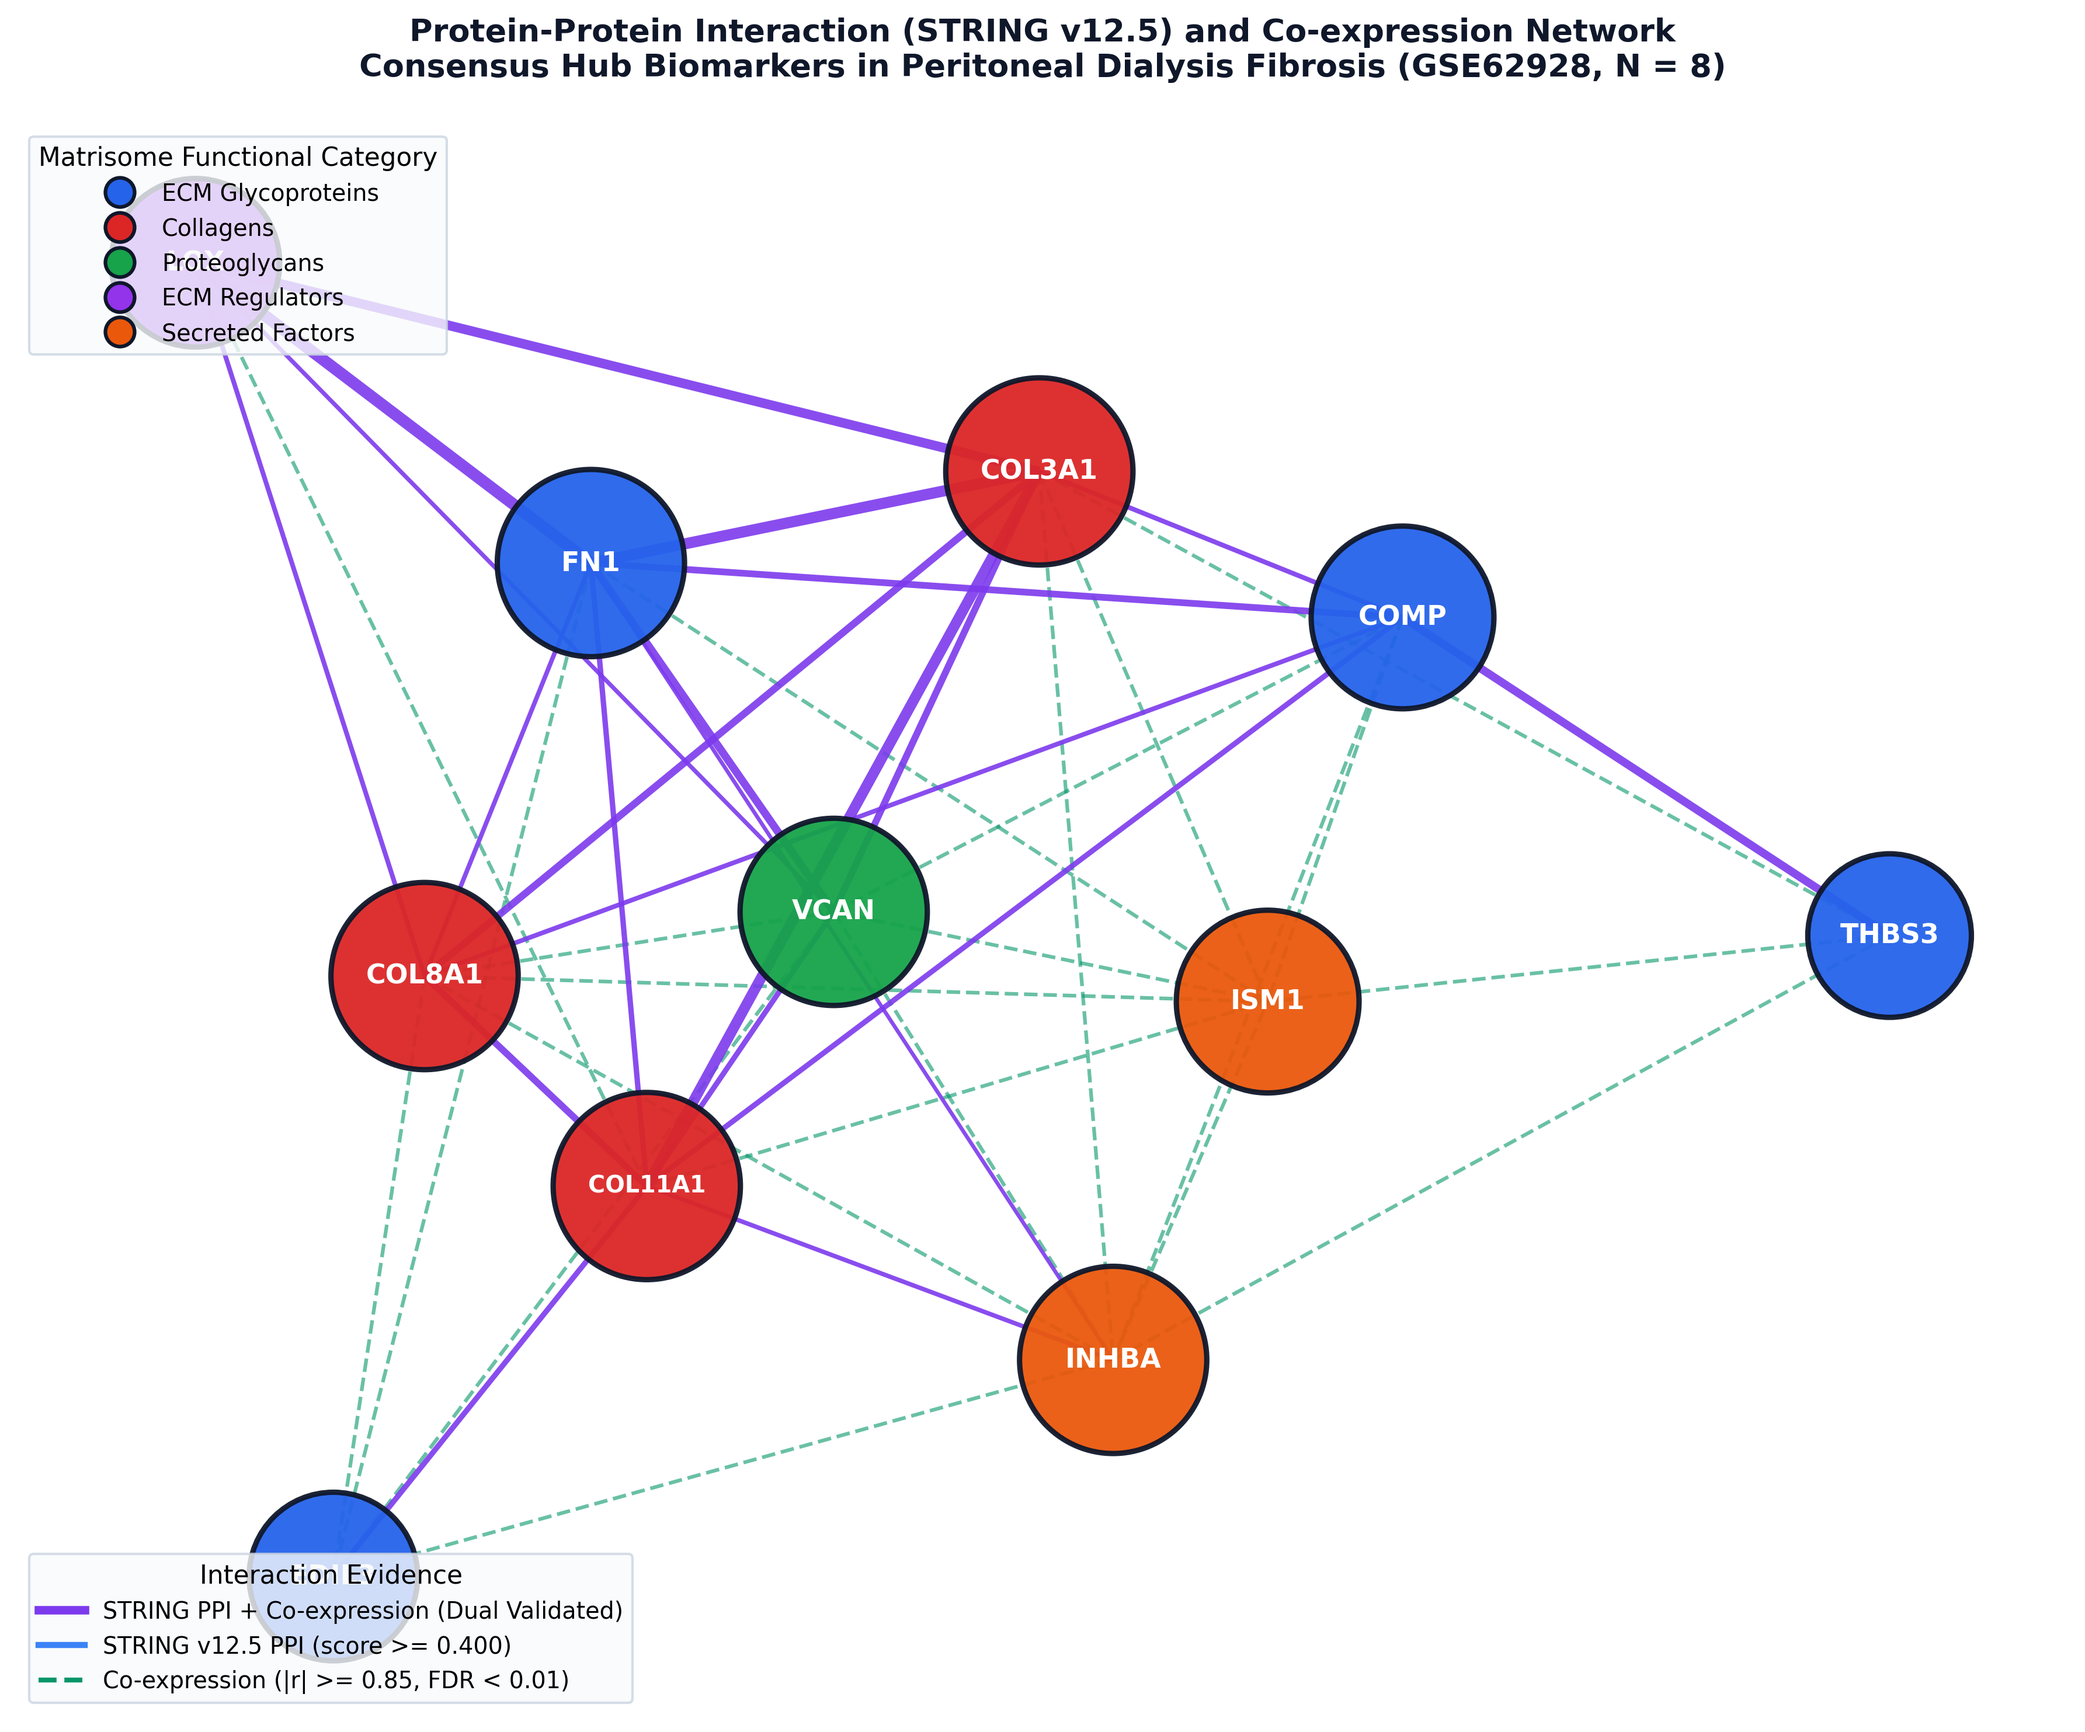
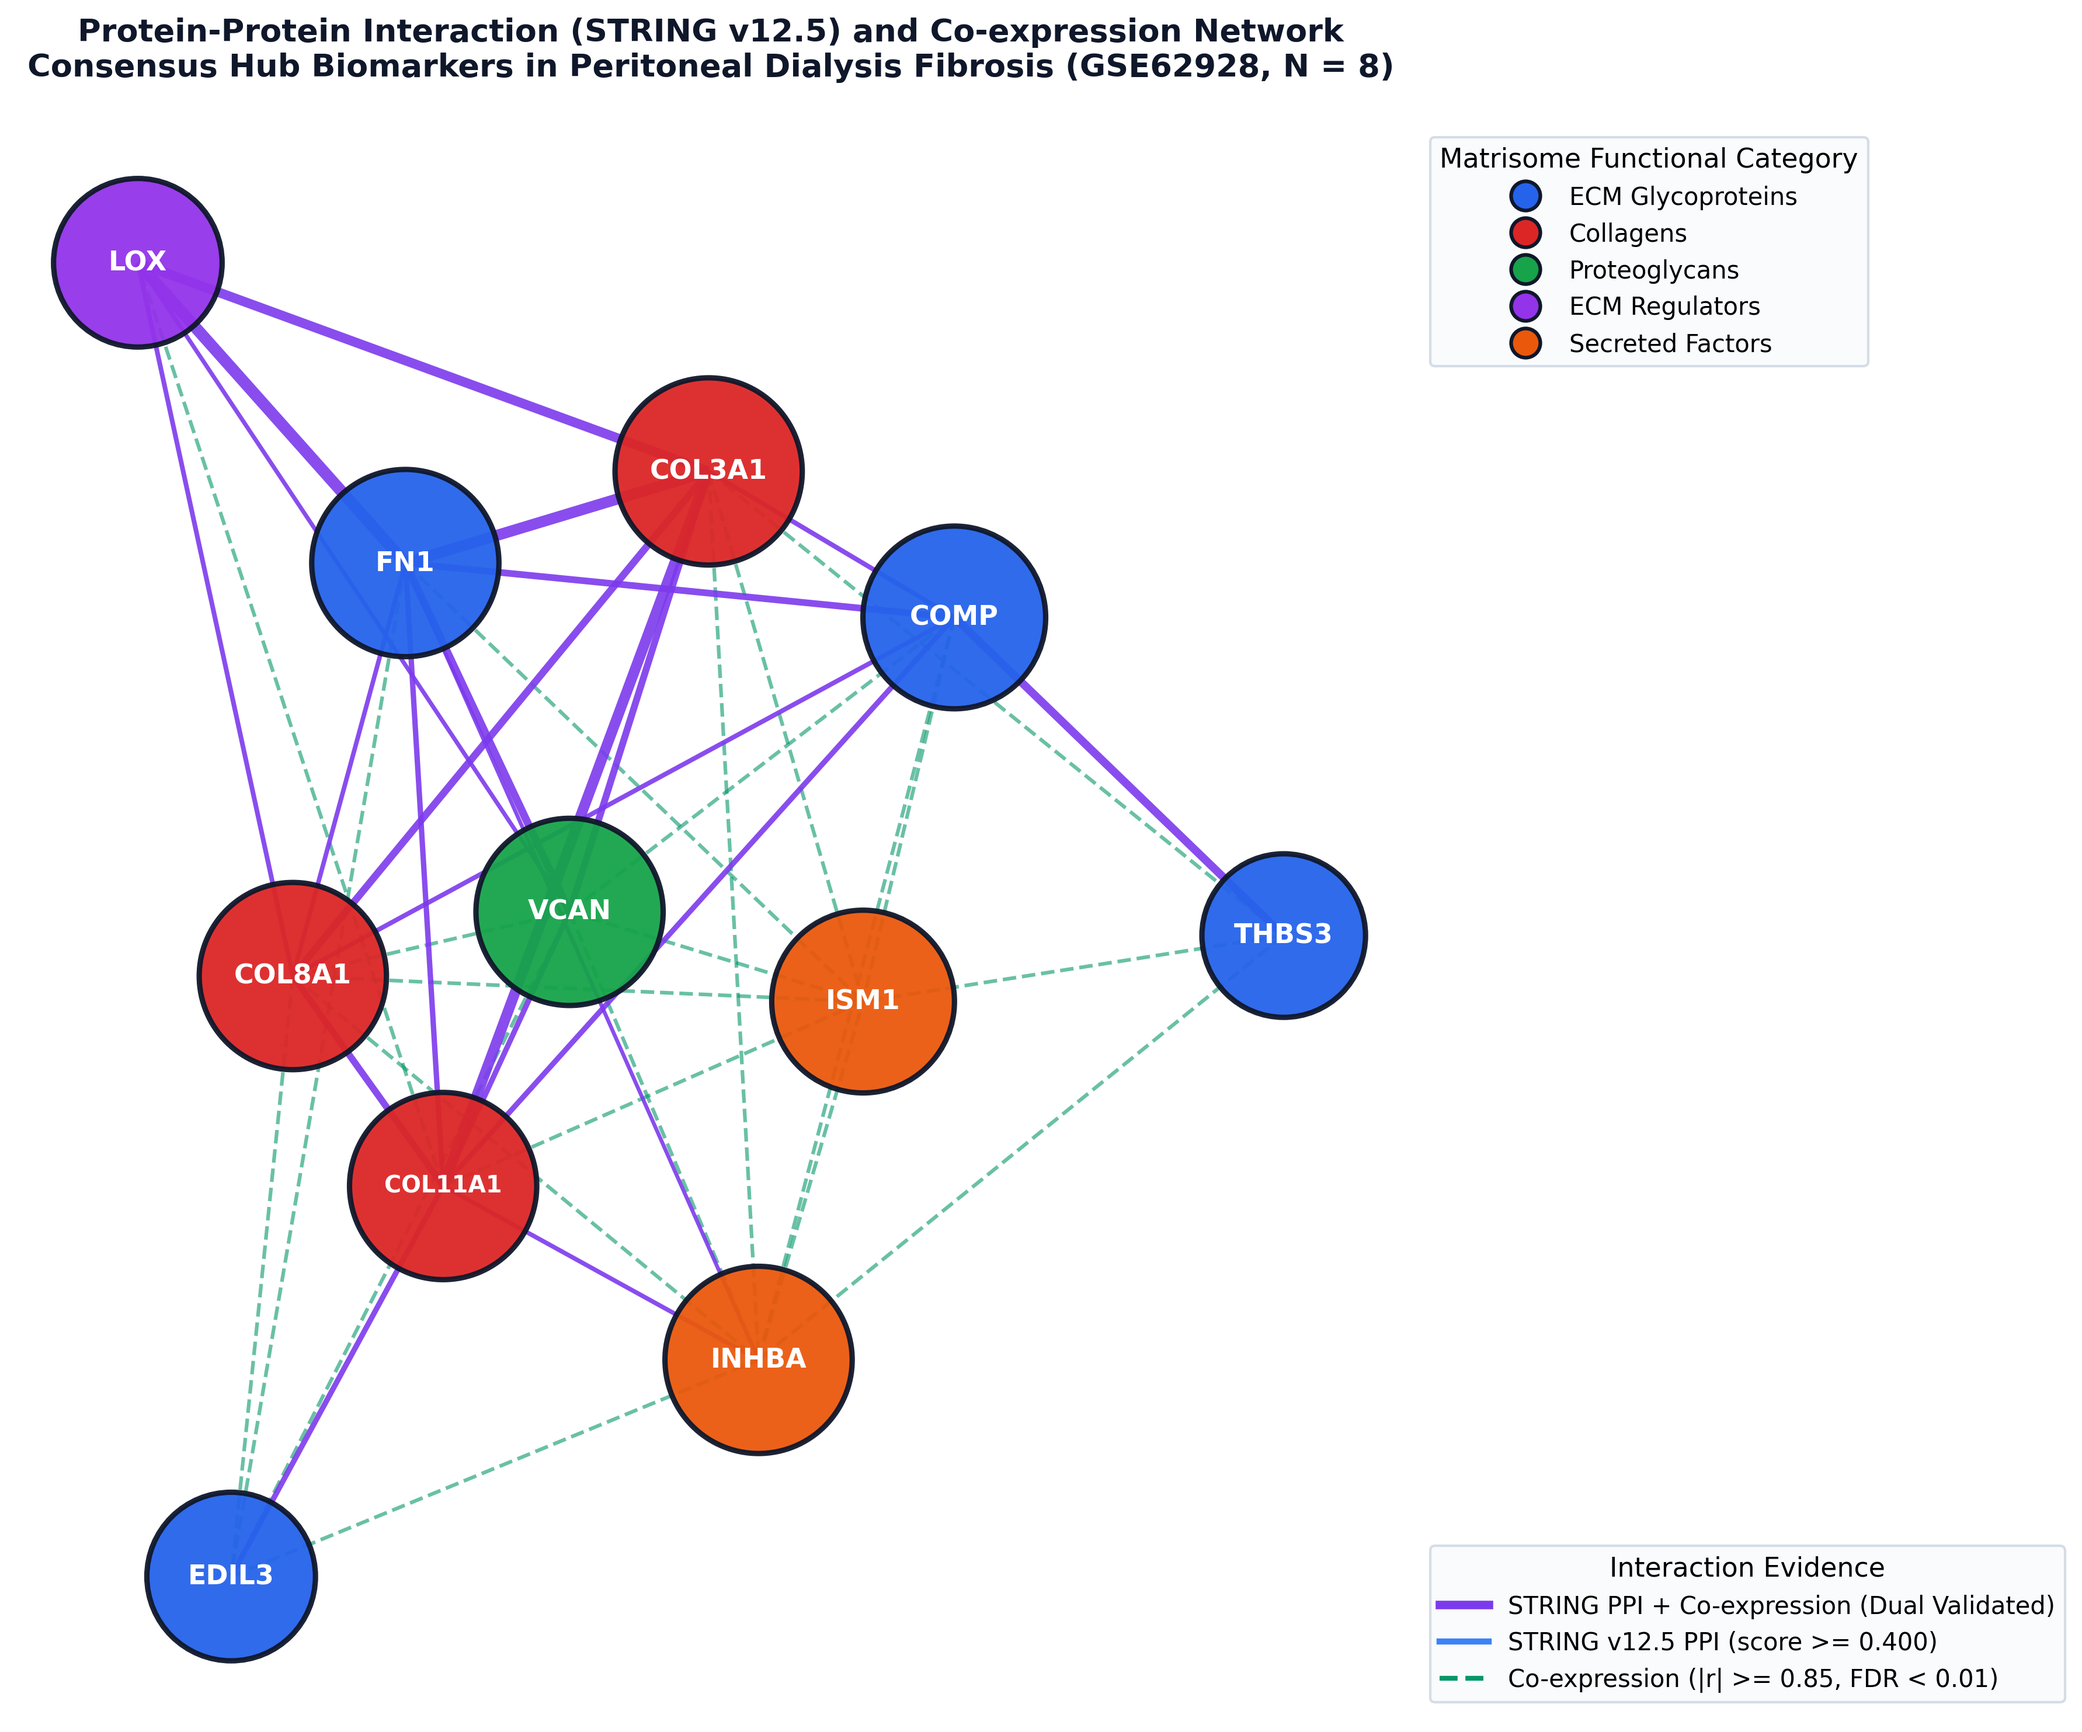
fix(figures): reposition PPI network legends to the right side to prevent obscuring LOX and EDIL3 nodes

diff --git a/07_gene_interaction_network.py b/07_gene_interaction_network.py
@@ -200,7 +200,7 @@ for g, (x, y) in pos.items():
     ax.text(x, y, g, fontsize=label_font_sizes[g], fontweight="bold",
             color="#FFFFFF", ha="center", va="center")
 
-# Legends
+# Legends - Placed outside / to the right side with dedicated margin so no nodes are obscured
 cat_handles = [mlines.Line2D([], [], color=col, marker='o', linestyle='None',
                              markersize=12, markeredgecolor='#0F172A', markeredgewidth=1.5, label=cat)
                for cat, col in category_colors.items()]
@@ -212,13 +212,13 @@ edge_handles = [
 ]
 
 leg1 = ax.legend(handles=cat_handles, title="Matrisome Functional Category",
-                 loc="upper left", bbox_to_anchor=(0.0, 1.0), frameon=True,
-                 fontsize=9.5, title_fontsize=10.5, facecolor="#F8FAFC", edgecolor="#CBD5E1")
+                 loc="upper left", bbox_to_anchor=(1.01, 1.0), frameon=True,
+                 fontsize=10, title_fontsize=11, facecolor="#F8FAFC", edgecolor="#CBD5E1")
 ax.add_artist(leg1)
 
 ax.legend(handles=edge_handles, title="Interaction Evidence",
-          loc="lower left", bbox_to_anchor=(0.0, 0.0), frameon=True,
-          fontsize=9.5, title_fontsize=10.5, facecolor="#F8FAFC", edgecolor="#CBD5E1")
+          loc="lower left", bbox_to_anchor=(1.01, 0.0), frameon=True,
+          fontsize=10, title_fontsize=11, facecolor="#F8FAFC", edgecolor="#CBD5E1")
 
 ax.set_title("Protein-Protein Interaction (STRING v12.5) and Co-expression Network\n"
              "Consensus Hub Biomarkers in Peritoneal Dialysis Fibrosis (GSE62928, N = 8)",
@@ -234,3 +234,4 @@ plt.savefig(out_png, dpi=300, bbox_inches="tight")
 plt.savefig(out_pdf, bbox_inches="tight")
 plt.close()
 print(f"Saved publication figures to {out_png} and {out_pdf}")
+
